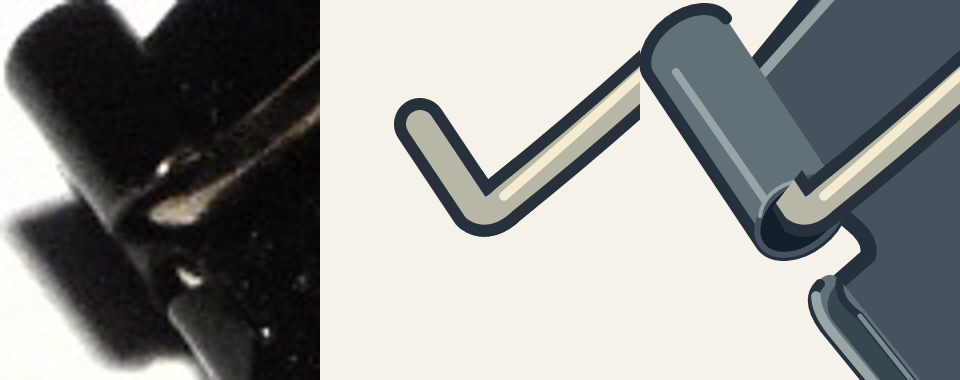
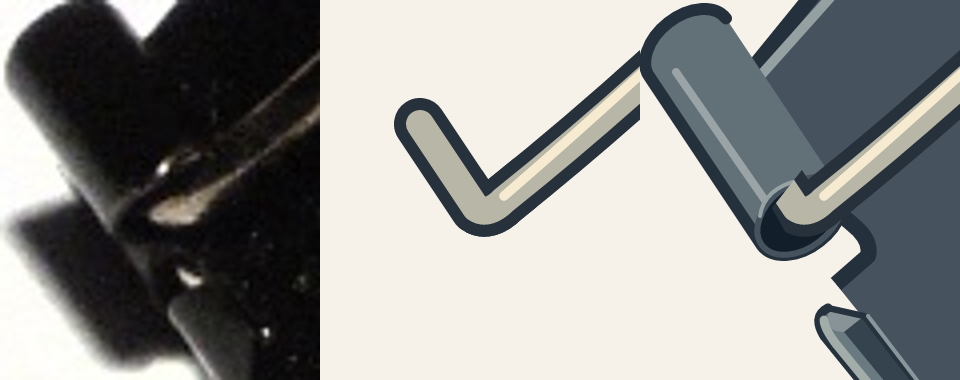
Fix central lip silhouette taper and require real boundary checks

Changed region(s): [[0.8438, 0.7237, 0.9688, 1.0]]

diff --git a/examples/svg-binder-clip/execution-record.md b/examples/svg-binder-clip/execution-record.md
@@ -214,3 +214,22 @@ After exact-group assembly, root opened the current mouth context and eight nati
 views again. This iteration addresses the visible unequal edge lengths; it does
 not reinstate a whole pass or user acceptance. The repeated missed dimension is
 retained as failure evidence rather than presented as a successful skill test.
+
+## Actual boundary correction after the highlight-only attempt
+
+Commit 04120b6 did not implement the claimed taper: its 51-unit line was an inner
+highlight, while the principal fill still used nearly full-length rails and rounded
+ends. A fresh review identified that concrete failure; the prior dimension claim is
+withdrawn. Root inspected the fill boundary itself, then changed it to a short edge
+(341,459) to (372,499), about 51 units, and a long edge (331,464) to (374,517), about
+68 units, with sloping cut ends. Those are actual fill contour vertices this time.
+The exact ratio remains stylized rather than a target-photo measurement.
+
+Root opened the independent local comparison before exact-group assembly, then
+opened the new mouth context, reference-evidence board, whole comparison and native
+views. A fresh read-only central review confirmed that the taper now changes the
+filled boundary, and found no through-gap behind the central sheet or new floating
+fragment at the neighboring mouths. It did not assess all other parts or declare a
+whole pass. The generic diagnosis/template now require checking actual dimension
+boundaries separately from highlights. This new wording has not yet received a
+held-out behavioral trial and is not claimed to prevent future errors.

diff --git a/skills/crafting-reference-based-svg-assets/references/execution-record.md b/skills/crafting-reference-based-svg-assets/references/execution-record.md
@@ -29,9 +29,10 @@
 
 1. 参考哪里体现什么关系？当前哪里不同？先看图回答，再读源。
    关键局部另写：辅助图的哪个位置确认/排除了什么解释，因此当前几何改哪里或为何保留？实体边界在哪里，是否把投影当材料？仅“看过辅助图”不满足这一项。
-2. 本次修改/保留的理由、源版本、渲染路径与导出对应关系。
-3. 实际看过的同比放大、1×浅深底和有关转向；具体观察。
-4. 有必改：写返工及下一动作，留在此局部；无必改：给本局部结论后再推进。
+2. 涉及尺寸时指出实际边界的起止点、长短/宽窄关系和端部过渡；必要时去掉高光看填充轮廓。源码或辅助异款上的比值不冒充主参考实测。
+3. 本次修改/保留的理由、源版本、渲染路径与导出对应关系。
+4. 实际看过的同比放大、1×浅深底和有关转向；具体观察。
+5. 有必改：写返工及下一动作，留在此局部；无必改：给本局部结论后再推进。
 
 ## 回装及整件
 

diff --git a/skills/crafting-reference-based-svg-assets/references/visual-diagnosis.md b/skills/crafting-reference-based-svg-assets/references/visual-diagnosis.md
@@ -7,6 +7,7 @@
 - 用同一实物基准看长宽关系、肩腰、凸凹和端部弧线。稳定基准不是各自画布中心，也不是外加安装柄的总长度。
 - 走完一侧到尾端、再沿另一侧返回，单独打开被整图缩小的端部。端部以上/以下仍属于整件；不要把琴枕、接缝或“这轮没改”当作审查边界。
 - 已有长短角、四弦或两拾音器不能证明琴型正确。先比较相互位置与整个外轮廓，再用部件细节解释身份。
+- 同一局部的相对尺寸也要落到实体边界：逐条定位待比较边的起止点、遮挡与端部收缩，再核长短、宽窄和两端切角。需要时暂时去掉高光/装饰，看填充轮廓是否仍成立。缩短亮线不能代替缩短自由边；坐标长度只能核当前稿，不能冒充照片实测。
 - 区分真实曲率差、描边造成的外扩、相机透视与照片反光。叠图可定位疑点，不能以像素差阈值定美术通过。
 
 ## 方向、投影与邻接
